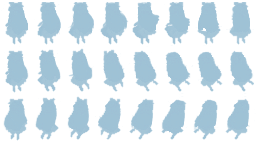
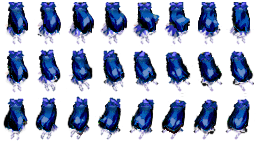
ok

diff --git a/LetoilePlayerReskin/files.js b/LetoilePlayerReskin/files.js
@@ -119,7 +119,7 @@
 	"th125/player/pl10.png": 2919594793,
 	"th128/Cirno.png": 1734625705,
 	"th128/player/pl00/pl00.png": 2372792706,
-	"th128/player/pl00/pl01.png": 152110225,
+	"th128/player/pl00/pl01.png": 1094746123,
 	"th13/Marisa.png": 764035902,
 	"th13/Reimu.png": 1534217388,
 	"th13/Sanae.png": 2031694766,
